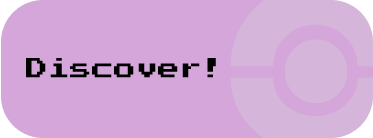
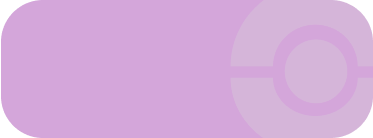
Added more styling

Changed region(s): [[0.059, 0.4058, 0.5898, 0.5797]]

diff --git a/src/landing.scss b/src/landing.scss
@@ -19,6 +19,7 @@ body {
 
 .container-right {
     height: 100vh;
+    margin-right: 3vw;
     .banner {
         height: 100%;
         .banner-img {
@@ -31,53 +32,237 @@ body {
     width: 100%;
     .background-circle {
         position: absolute;
-        left: -31.25%;
-        right: 68.75%;
-        top: -43.95%;
-        bottom: 56.05%;
+        left: -102vw;
+        right: 57vw;
+        top: -52vh;
+        bottom: 39vh;
         background: radial-gradient(35.95% 35.95% at 56.85% 55.75%, #5a33b2 0%, rgba(90, 51, 178, 0) 100%);
         filter: blur(45px);
     }
 
     .title {
+        margin: 0;
         position: absolute;
-        left: 2.85%;
-        right: 36.11%;
-        top: 1.25%;
-        bottom: 74.92%;
-        font-family: "Luckiest Guy";
-        font-style: normal;
+        left: 3vw;
+        top: 1vh;
+        font-family: "Abril Fatface", cursive;
         font-weight: 400;
         width: 55%;
-        font-size: 7.5rem;
+        font-size: 16px;
+        font-size: 6vw;
         color: #ffffff;
     }
 
     .discover {
         .btn {
             position: absolute;
-            left: 2.91%;
-            right: 71.25%;
-            top: 55%;
-            bottom: 39.75%;
-            width: 373px;
-            height: 138px;
+            left: 3vw;
+            top: 41vh;
+            width: calc(150px + 18vw);
+            height: calc(10px + 12vh);
             border: none;
-            border-bottom: 10px solid #9421a3;
-            border-radius: 46px;
-            background-image: url("./img/Group\ 1.png");
-            box-shadow: 0 5px 10px #e523ff;
+            border-bottom: 9px solid #9421a3;
+            border-radius: 60px;
+            background-color: #f1b6f8;
+            box-shadow: 0 4px 10px #e523ff;
+            font-family: "Press Start 2P", cursive;
+            text-align: center;
+            font-size: calc(10px + 1.2vw);
             &:active {
-                transform: translateY(5px);
+                transform: translateY(4px);
                 border-bottom: none;
+            }
+
+            a {
+                color: black;
+                text-decoration: none;
             }
         }
 
         .pokeball {
             position: absolute;
-            left: 40.91%;
-            top: 41%;
-            bottom: 39.75%;
+            left: 45vw;
+            top: 18vh;
+        }
+    }
+
+    .featured {
+        position: absolute;
+        display: flex;
+        flex-direction: column;
+        bottom: 5vh;
+        left: 7vh;
+        width: 65vw;
+
+        .featured-title {
+            font-family: "Abril Fatface", cursive;
+            font-weight: 400;
+            color: #ffffff;
+            font-size: 3vw;
+            margin: 0;
+        }
+
+        .featured-pokemon-container {
+            margin-top: 2vh;
+            display: flex;
+            justify-content: space-between;
+            .featured-pokemon {
+                width: 20vw;
+                height: 20vh;
+                background-color: #ffffff;
+                border-radius: 30px;
+                display: flex;
+                justify-content: space-between;
+                align-items: center;
+                .pokemon-img {
+                    height: 100%;
+                    width: 50%;
+                }
+                .description {
+                    position: relative;
+                    width: 50%;
+                    height: 100%;
+                    text-align: center;
+                    margin-right: 2vw;
+
+                    .pokemon-name {
+                        margin-top: 3vh;
+                        font-size: 1.5vw;
+                    }
+
+                    .type-container {
+                        width: 100%;
+                        display: flex;
+                        justify-content: space-around;
+
+                        .ground {
+                            border-radius: 50px;
+                            background: #da7c4d;
+                            height: 40px;
+                            width: 40px;
+                        }
+                        
+                        .rock {
+                            border-radius: 50px;
+                            background: #c9bb8a;
+                            height: 40px;
+                            width: 40px;
+                        }
+                        
+                        .bug {
+                            background: #92bc2c;
+                            border-radius: 50px;
+                            height: 40px;
+                            width: 40px;
+                        }
+                        
+                        .dark {
+                            background: #595761;
+                            border-radius: 50px;
+                            height: 40px;
+                            width: 40px;
+                        }
+                        
+                        .dragon {
+                            background: #0c69c8;
+                            border-radius: 50px;
+                            height: 40px;
+                            width: 40px;
+                        }
+                        
+                        .electric {
+                            background: #f2d94e;
+                            border-radius: 50px;
+                            height: 40px;
+                            width: 40px;
+                        }
+                        
+                        .fire {
+                            background: #fba54c;
+                            border-radius: 50px;
+                            height: 40px;
+                            width: 40px;
+                        }
+                        
+                        .fairy {
+                            background: #ee90e6;
+                            border-radius: 50px;
+                            height: 40px;
+                            width: 40px;
+                        }
+                        
+                        .fighting {
+                            background: #d3425f;
+                            border-radius: 50px;
+                            height: 40px;
+                            width: 40px;
+                        }
+                        
+                        .flying {
+                            background: #a1bbec;
+                            border-radius: 50px;
+                            height: 40px;
+                            width: 40px;
+                        }
+                        
+                        .ghost {
+                            background: #5f6dbc;
+                            border-radius: 50px;
+                            height: 40px;
+                            width: 40px;
+                        }
+                        
+                        .grass {
+                            background: #5fbd58;
+                            border-radius: 50px;
+                            height: 40px;
+                            width: 40px;
+                        }
+                        
+                        .ice {
+                            background: #75d0c1;
+                            border-radius: 50px;
+                            height: 40px;
+                            width: 40px;
+                        }
+                        
+                        .normal {
+                            background: #a0a29f;
+                            border-radius: 50px;
+                            height: 40px;
+                            width: 40px;
+                        }
+                        
+                        .poison {
+                            background: #b763cf;
+                            border-radius: 50px;
+                            height: 40px;
+                            width: 40px;
+                        }
+                        
+                        .psychic {
+                            background: #fa8581;
+                            border-radius: 50px;
+                            height: 40px;
+                            width: 40px;
+                        }
+                        
+                        .steel {
+                            background: #5695a3;
+                            border-radius: 50px;
+                            height: 40px;
+                            width: 40px;
+                        }
+                        
+                        .water {
+                            background: #539ddf;
+                            border-radius: 50px;
+                            height: 40px;
+                            width: 40px;
+                        }
+                    }
+                }
+            }
         }
     }
 }

diff --git a/src/index.html b/src/index.html
@@ -6,7 +6,8 @@
     <meta http-equiv="X-UA-Compatible" content="IE=edge">
     <meta name="viewport" content="width=device-width, initial-scale=1.0">
     <link rel="stylesheet" href="./landing.css">
-    <link href="https://fonts.googleapis.com/css2?family=Luckiest+Guy&display=swap" rel="stylesheet">
+    <link href="https://fonts.googleapis.com/css2?family=Abril+Fatface&display=swap" rel="stylesheet">
+    <link href="https://fonts.googleapis.com/css2?family=Press+Start+2P&display=swap" rel="stylesheet">
     <title>Pokédex</title>
 </head>
 
@@ -16,8 +17,46 @@
             <div class="background-circle"></div>
             <h1 class="title">Lior`s & Tal`s Pokedex</h1>
             <section class="discover">
-                <button class="btn"></button>
+                <button class="btn"><a href="./pokemon.html">Discover!</a></button>
                 <img class="pokeball" src="./img/Group 3.png" alt="">
+            </section>
+            <section class="featured">
+                <h3 class="featured-title">Featured:</h3>
+                <div class="featured-pokemon-container">
+                    <div class="featured-pokemon left">
+                        <img class="pokemon-img"
+                            src="https://raw.githubusercontent.com/PokeAPI/sprites/master/sprites/pokemon/132.png">
+                        <div class="description">
+                            <h4 class="pokemon-name" >Ditto</h4>
+                            <div class="type-container">
+                                <img class="bug" src="./icons/bug.svg">
+                                <img class="rock" src="./icons/rock.svg">
+                            </div>
+                        </div>
+                    </div>
+                    <div class="featured-pokemon center">
+                        <img class="pokemon-img"
+                            src="https://raw.githubusercontent.com/PokeAPI/sprites/master/sprites/pokemon/2.png">
+                        <div class="description">
+                            <h4 class="pokemon-name" >Ditto</h4>
+                            <div class="type-container">
+                                <img class="grass" src="./icons/grass.svg">
+                                <img class="poison" src="./icons/poison.svg">
+                            </div>
+                        </div>
+                    </div>
+                    <div class="featured-pokemon right">
+                        <img class="pokemon-img"
+                            src="https://raw.githubusercontent.com/PokeAPI/sprites/master/sprites/pokemon/12.png">
+                        <div class="description">
+                            <h4 class="pokemon-name" >Ditto</h4>
+                            <div class="type-container">
+                                <img class="ice" src="./icons/ice.svg">
+                                <img class="water" src="./icons/water.svg">
+                            </div>
+                        </div>
+                    </div>
+                </div>
             </section>
         </div>
         <div class="container-right">
